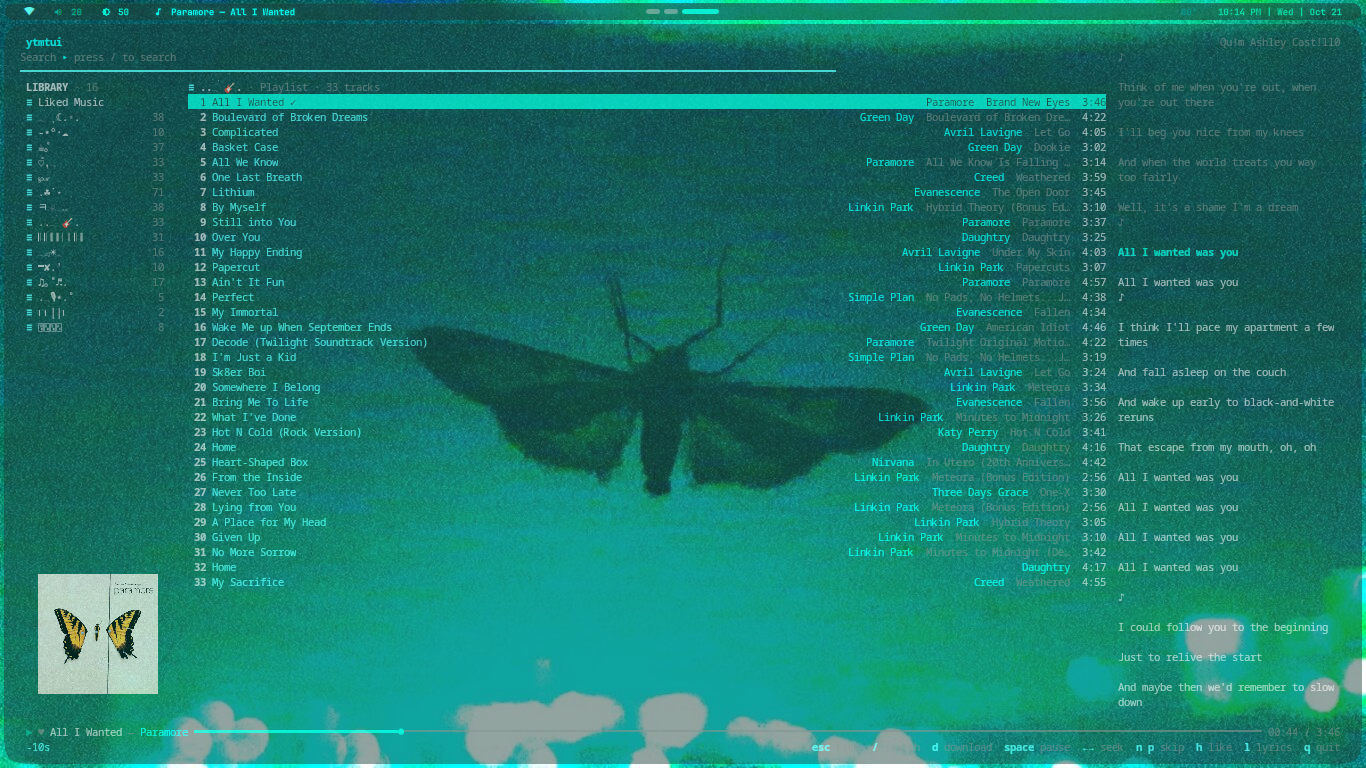
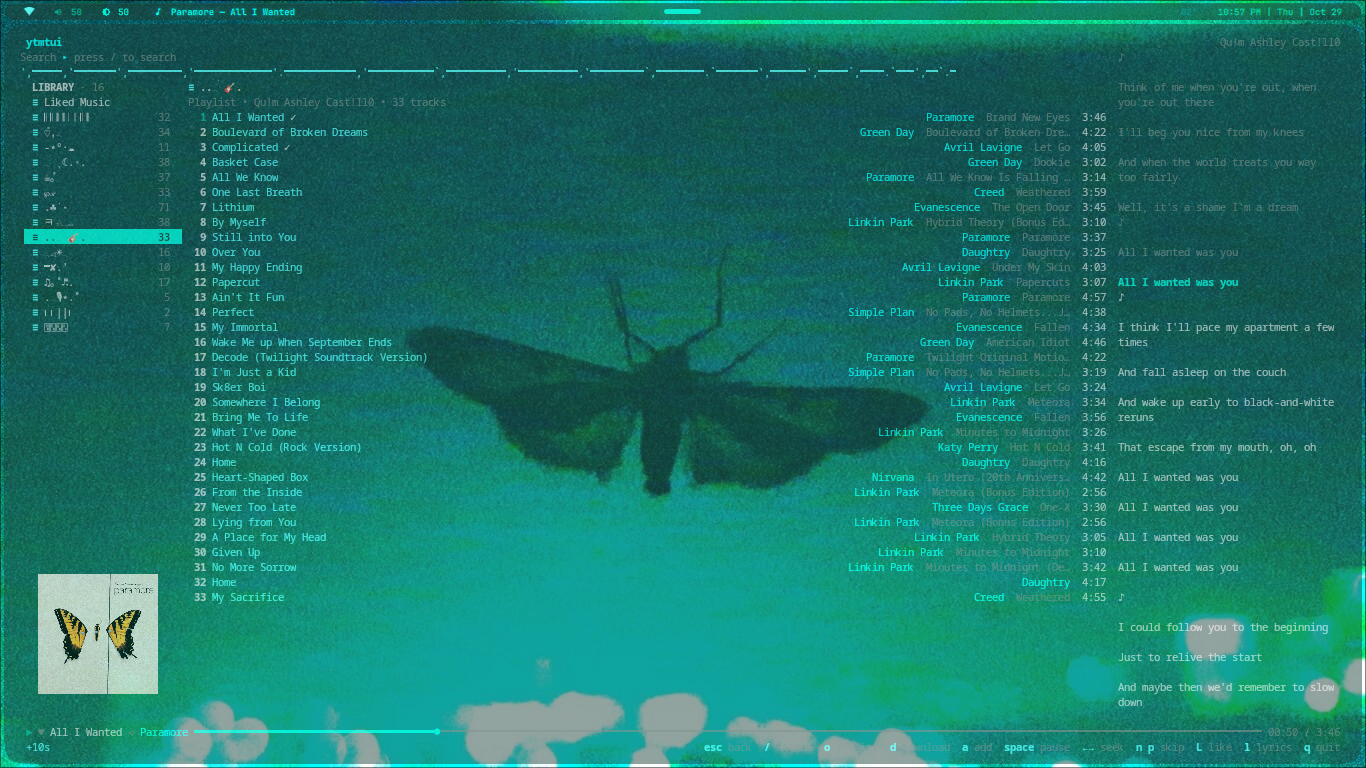
docs: refresh screenshots with five new shots

diff --git a/README.md b/README.md
@@ -49,9 +49,8 @@ featuring an **mpv** backend · download songs with Embedded album art + lyrics 
 
 | | |
 | :---: | :---: |
-| ![Your Anxiety Buddy](assets/screenshots/your-anxiety-buddy.png) | ![Billie Eilish](assets/screenshots/billie-eilish.png) |
-
-![Birds of a Feather](assets/screenshots/birds-of-a-feather.png)
+| ![Billie Eilish — i love you](assets/screenshots/i-love-you.png) | ![Billie Eilish — What Was I Made For?](assets/screenshots/what-was-i-made-for.png) |
+| ![llana Flores — rises the moon](assets/screenshots/rises-the-moon.png) | ![Green Day — Boulevard of Broken Dreams](assets/screenshots/boulevard-of-broken-dreams.png) |
 
 </div>
 
